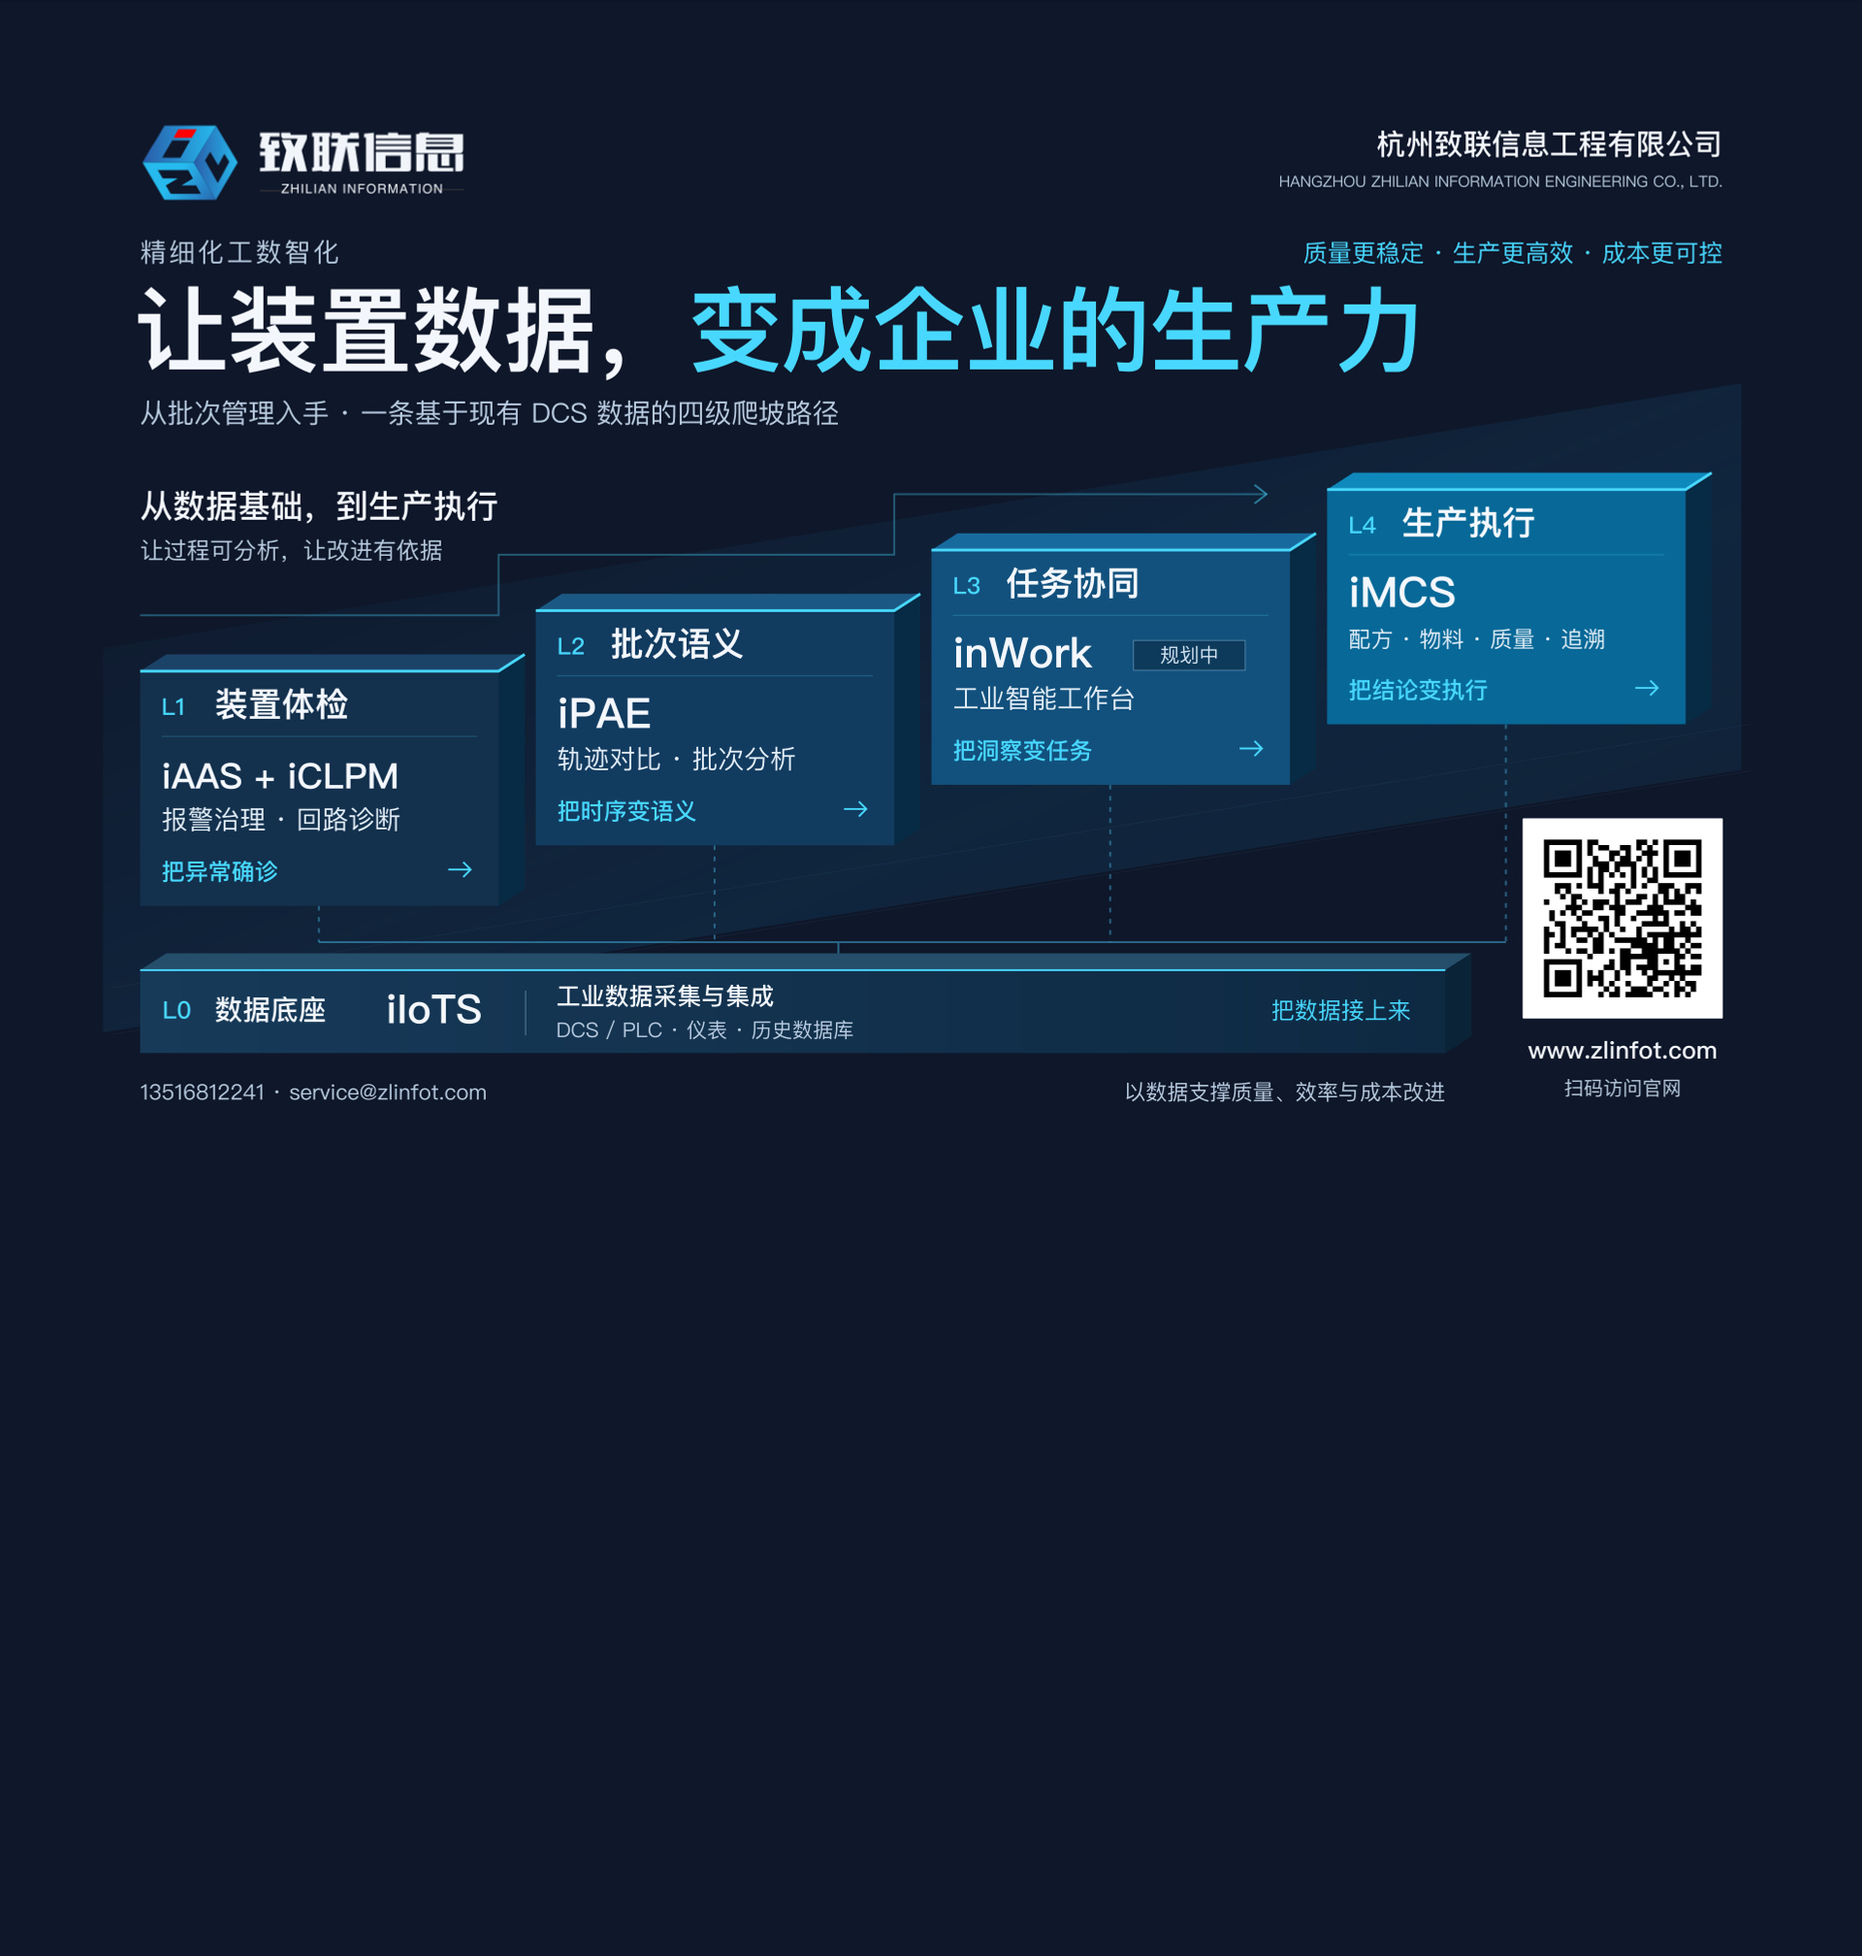
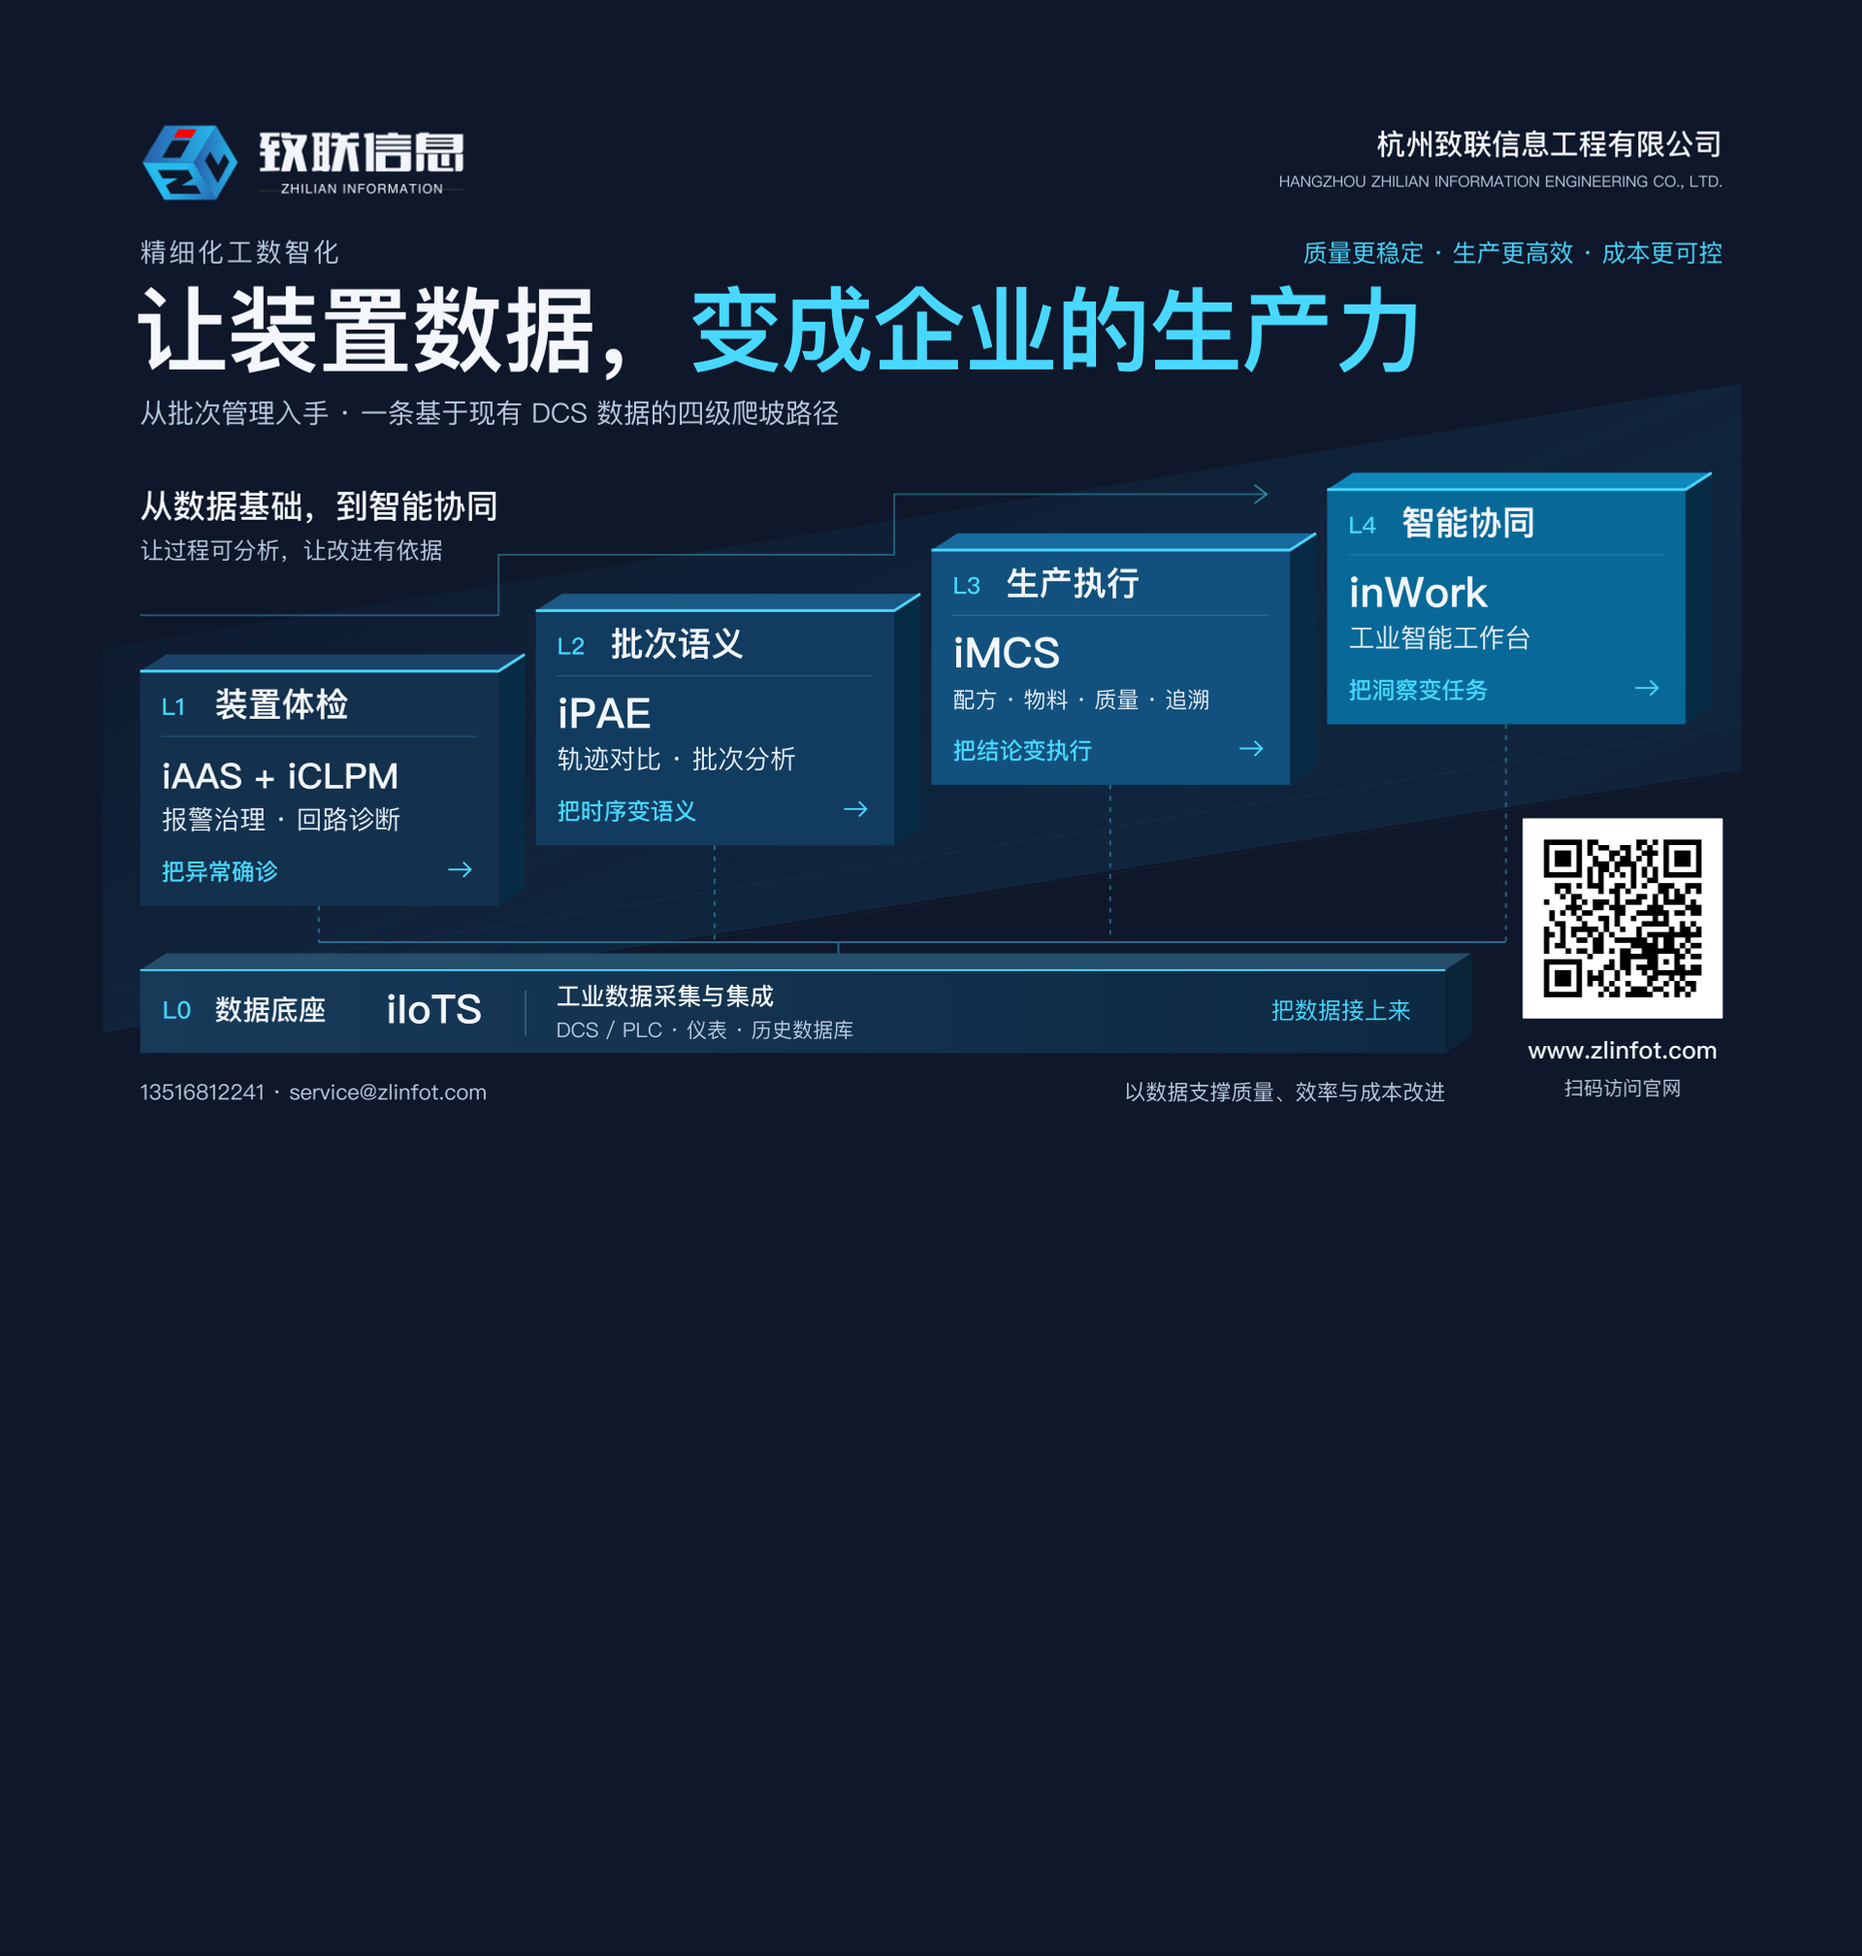
design: move intelligent collaboration to L4 on backwall

Changed region(s): [[0.5, 0.2812, 0.6875, 0.4062], [0.7188, 0.25, 0.875, 0.375], [0.1875, 0.25, 0.2812, 0.2812]]

diff --git a/03_展会策划与物料/20_A03背景板_20261019/README.md b/03_展会策划与物料/20_A03背景板_20261019/README.md
@@ -13,19 +13,19 @@
 | L0 数据底座 | iIoTS，工业数据采集与集成 | 把数据接上来 |
 | L1 装置体检 | iAAS + iCLPM，报警治理与回路诊断 | 把异常确诊 |
 | L2 批次语义 | iPAE，轨迹对比与批次分析 | 把时序变语义 |
-| L3 任务协同 | inWork，工业智能工作台，规划中 | 把洞察变任务 |
-| L4 生产执行 | iMCS，配方、物料、质量、追溯 | 把结论变执行 |
+| L3 生产执行 | iMCS，配方、物料、质量、追溯 | 把结论变执行 |
+| L4 智能协同 | inWork，工业智能工作台 | 把洞察变任务 |
 
-图示表达产品能力定位与四级爬坡方法，不表示产品间集成已经完成，也不表示客户必须按固定顺序采购。沿用委托书的产品层级，未添加收益数字或自动控制承诺。
+图示表达产品能力定位与四级爬坡方法，不表示产品间集成已经完成，也不表示客户必须按固定顺序采购。根据用户最新要求，将生产执行调至 L3、智能协同调至 L4，未添加收益数字或自动控制承诺。
 
 - 取消苯环、含氟和分子结构装饰；精细化工定位通过批次、配方、物料、质量和追溯表达。
 - 取消「黄金批次」主标题和独立轨迹主图，相关意图收进 iPAE 的轨迹对比与批次分析能力。
 - 主标语改为一行；阶梯实体、青蓝边缘和逐级增强的蓝色承担主视觉。
-- 质量、效率、成本作为价值主张保留；inWork 明确标注「规划中」。
+- 质量、效率、成本作为价值主张保留；inWork 位于 L4「智能协同」，按用户要求去除「规划中」字样。
 - 所有正文、图形和二维码位于上方 1200 mm 内，底部 900 mm 留空；板面无 A03。
 - 品牌 LOGO 保持原件，二维码继续指向 `http://www.zlinfot.com`。
 
-本版按用户最新要求调整；与 `19_背景板设计任务委托书.md` 中原先的两行标题、抽象主视觉要求不同时，以本次明确修改意见为准。
+本版按用户最新要求调整；与 `19_背景板设计任务委托书.md` 中原先的两行标题、抽象主视觉、L3/L4 顺序和 inWork 状态标注要求不同时，以本次明确修改意见为准。
 
 | 文件 | 用途 |
 |---|---|
@@ -37,10 +37,10 @@
 
 ## 第三版验证与复现
 
-- 构建通过：31 项必需文案、11 个禁用词、1920 × 2016 输出尺寸。
-- 第三版另行检查：无 A03、黄金批次标题及旧分子图形标识；正文基线不得超过距板顶 1190 mm。
+- 构建通过：30 项必需文案、11 个禁用词、1920 × 2016 输出尺寸。
+- 第三版另行检查：无 A03、黄金批次标题、旧分子图形标识、「任务协同」及「规划中」；正文基线不得超过距板顶 1190 mm。
 - 正面和桌前效果图已目视检查。macOS CoreImage 对码图原件和整板 JPEG 均成功解码为 `http://www.zlinfot.com`。
-- macOS Vision 识别出 42 处文字，最低文字距成品底边约 906 mm，未识别到 A03。
+- 本次调整后，macOS Vision 识别出 39 处文字，最低文字距成品底边约 906 mm，未识别到 A03、「任务协同」或「规划中」。
 - SVG 无损渲染像素核验确认底部 900 mm 为纯底色；JPEG 有不超过 2 色阶的压缩偏差。SVG 内嵌 LOGO、二维码与素材文件逐字节一致。
 - 成品 2000 × 2100 mm，底部 900 mm 纯底色；本版二维码码图 181 mm、白底 215 mm。
 - 当前为 RGB 效果审阅稿，正文仍可编辑。最终字体转曲、印厂 ICC/CMYK 转换和实物小样需在送印前完成。
